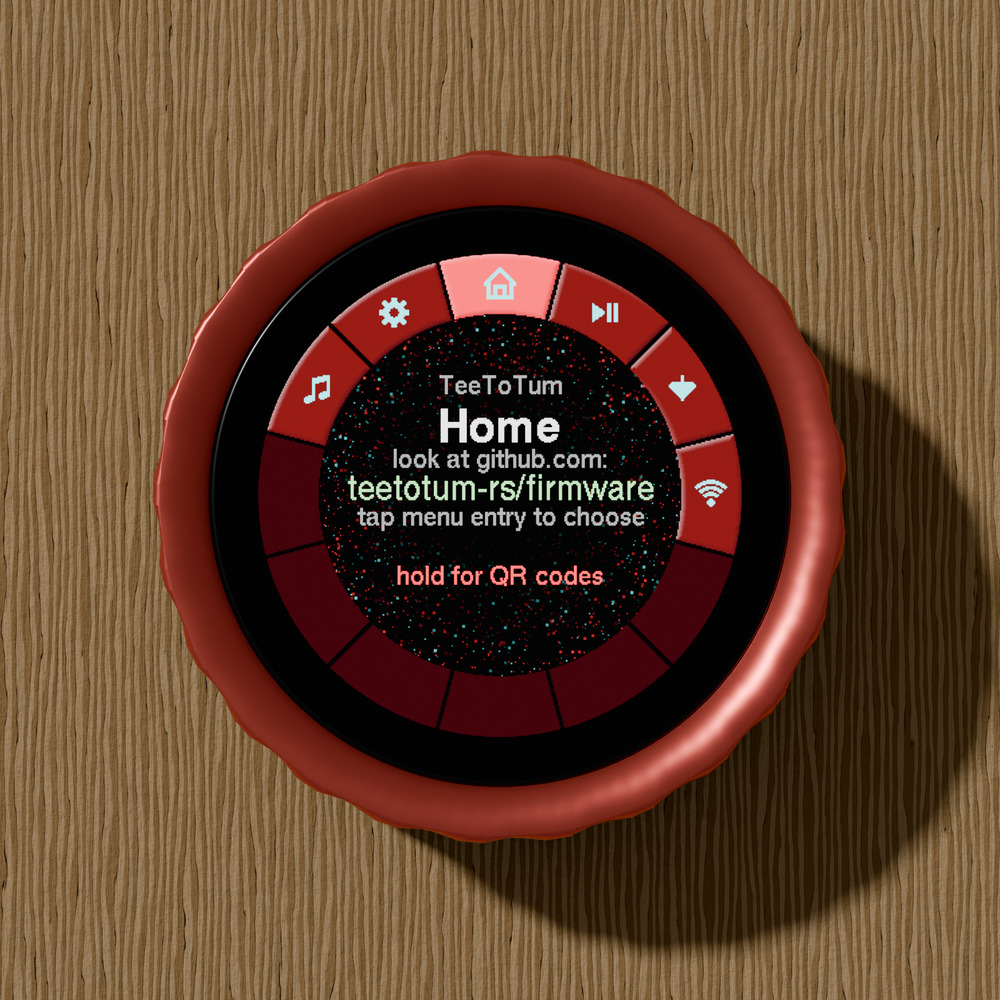
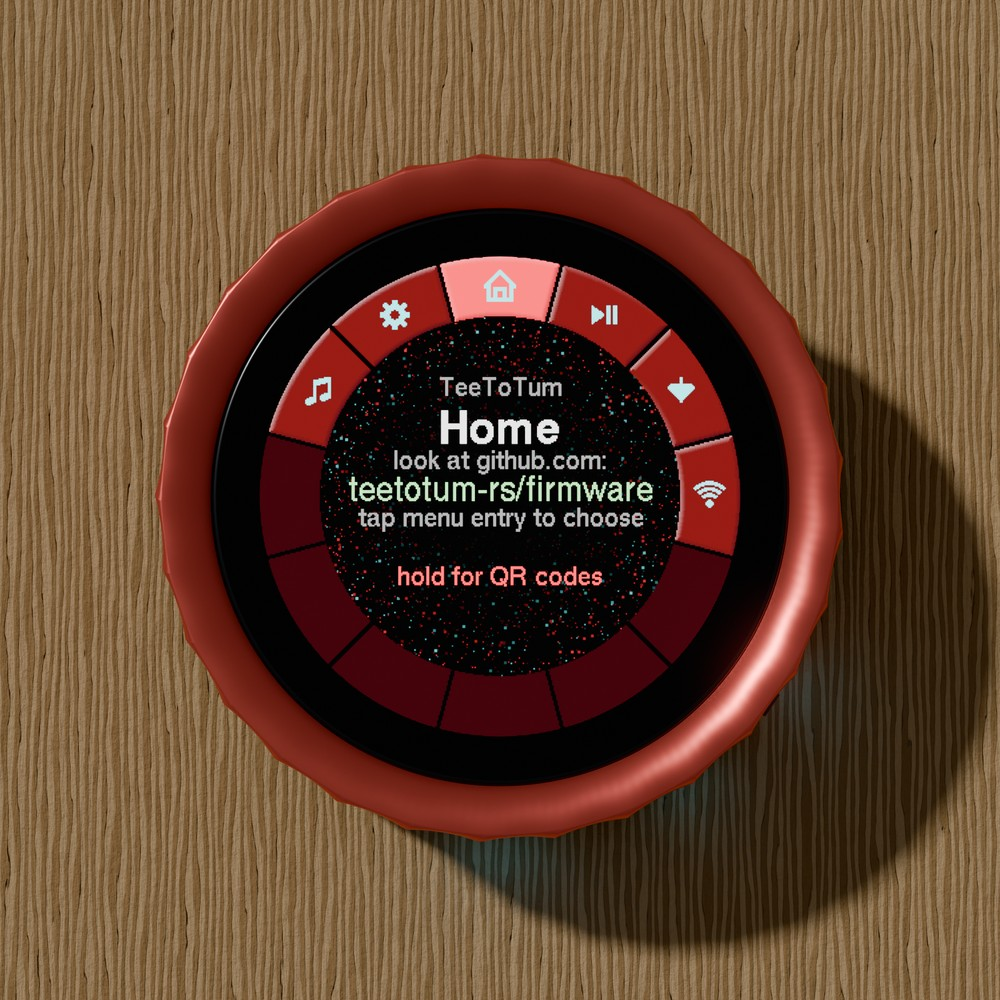
Model the base's openings and the knurl from photographs
The render now shows microphone, USB-C, headphone jack and power switch in
the base, glowing blue so they read against the black case; the README says
the glow is illustration only. The knurl has 29 flutes climbing at 40 degrees
as flat facets between sharp crests, the height divides as measured (knob
13.4 mm, base 7.9 mm on a narrower foot), and the quarter view turns to show
all four openings.

Claude-Session: https://claude.ai/code/session_01RK2rQXJBQMYdPMgsSTKkCg

diff --git a/tools/render-device.py b/tools/render-device.py
@@ -21,6 +21,7 @@ import math
 import os
 import sys
 
+import bmesh
 import bpy
 from mathutils import Vector
 
@@ -31,25 +32,45 @@ KNOB_D = 66.0          # outer diameter of the red knob ring, measured
 BASE_D = 66.0          # the base is the same width, measured
 TOTAL_H = 22.0         # overall height, measured
 
-# How the height divides between knob and base is estimated.
-KNOB_H = 11.5
+# How the height divides, measured from side photographs.
+KNOB_H = 13.4
 GAP_H = 0.7            # the shadow line between the turning part and the base
 BASE_H = TOTAL_H - KNOB_H - GAP_H
+FOOT_H = 1.1           # the base stands on a narrower foot
+FOOT_D = 62.5
 
 GLASS_D = KNOB_D * 0.839   # black glass, edge to edge
 ACTIVE_D = KNOB_D * 0.696  # the 360x360 pixels the firmware draws into
 # The knob's face is a shallow cone falling towards the glass, which lies at its inner edge.
 FACE_DISH = 0.7            # how far the inner edge of the face lies below the outer one
 GLASS_FILLET = 0.5         # radius of the rounded edge of the glass
+# The flutes, counted and measured on side photographs: flat facets between sharp crests,
+# slightly hollow, climbing at a constant angle.
+FLUTES = 29
+FLUTE_SLANT = 40.0         # degrees from the axis
+FLUTE_SAG = 0.3            # how far the middle of a facet lies below its chord
+FLUTE_POINTS = 6           # vertices across one flute
 KNOB_BEVEL = 0.8           # chamfer on the knob's top edge, the only smooth part of it
 BASE_BEVEL = 1.0
 
-USB_W, USB_H, USB_DEPTH = 9.0, 3.2, 1.6   # the Type-C socket in the base
+# The openings in the base, measured from photographs of its side. Azimuth in degrees (-90 is
+# the -y side), width along the circumference and height in millimetres.
+PORTS = {
+    "mic": dict(azimuth=-111, w=1.1, h=1.1),
+    "usb": dict(azimuth=-90, w=9.4, h=3.5),
+    "jack": dict(azimuth=-57, w=4.0, h=4.0),
+    "switch": dict(azimuth=-34, w=6.5, h=3.1),
+}
+PORT_DEPTH = 1.2
+SWITCH_PROUD = 1.0         # the switch lever stands out of the base
 
 # --- colours ------------------------------------------------------------------
 RED_ANODISED = (0.74, 0.105, 0.085)   # linear; matt anodised aluminium, the turning part
 BASE_BLACK = (0.022, 0.022, 0.024)    # the base below the seam
 GLASS_BLACK = (0.004, 0.004, 0.005)
+NEON_BLUE = (0.0, 0.42, 1.0)          # the openings glow, or they are black on black
+NEON_STRENGTH = 8.0
+GLOW_THRESHOLD = 6.5                  # above the screen's brightest pixels, so it stays sharp
 GROUND_LIGHT = (0.78, 0.78, 0.79)
 GROUND_DARK = (0.045, 0.046, 0.050)
 WOOD_LIGHT = (0.700, 0.455, 0.215)    # linear; light brown, the wood between the grain
@@ -135,8 +156,8 @@ def cylinder(name, radius, depth, z, verts=128, bevel=0.0, mat=None):
     return ob
 
 
-def knurled_knob(name, radius, height, bottom, teeth=25, groove=0.5,
-                 bevel=0.8, slant=45.0, dish=0.0, bore=None, mat=None):
+def knurled_knob(name, radius, height, bottom, teeth=FLUTES, sag=FLUTE_SAG,
+                 bevel=0.8, slant=FLUTE_SLANT, dish=0.0, bore=None, mat=None):
     """The whole turning part as one mesh, its profile written out as rings:
 
         bottom ......... full flutes
@@ -146,9 +167,9 @@ def knurled_knob(name, radius, height, bottom, teeth=25, groove=0.5,
 
     A single mesh avoids a bevel modifier, which would also round the lower rim and leave a
     visible groove. The twist per millimetre is constant, so flutes climb at `slant` degrees (a
-    diagonal knurl). Four points per flute keep the wall round between the grooves.
+    diagonal knurl). Each flute is a facet between two crests, hollowed by `sag`.
     """
-    spokes = teeth * 4
+    spokes = teeth * FLUTE_POINTS
     step = 2 * math.pi / spokes
 
     # (height above the bottom, how much of the flute depth is left, radius of the ring)
@@ -172,8 +193,10 @@ def knurled_knob(name, radius, height, bottom, teeth=25, groove=0.5,
         zt_twist = zt if n < knurled else height
         twist = math.tan(math.radians(slant)) * zt_twist / radius if slant else 0.0
         for i in range(spokes):
-            # Two points on the land, two in the groove.
-            r = ring_r - (groove * depth if i % 4 in (2, 3) else 0.0)
+            # On the chord between two crests, less the hollow; `depth` fades both towards the face.
+            u = (i % FLUTE_POINTS) / FLUTE_POINTS
+            chord = math.cos(math.pi / teeth) / math.cos((u - 0.5) * 2 * math.pi / teeth)
+            r = ring_r * (1 - depth * (1 - chord)) - sag * depth * 4 * u * (1 - u)
             theta = i * step + twist
             verts.append((r * math.cos(theta), r * math.sin(theta), zt - height / 2))
 
@@ -193,11 +216,12 @@ def knurled_knob(name, radius, height, bottom, teeth=25, groove=0.5,
     bpy.context.collection.objects.link(ob)
     ob.location = (0, 0, bottom + height / 2)
 
-    # Mark the upright edges of the knurled rings sharp: an angle threshold would either facet
-    # the chamfer or melt the flutes. On the face they would facet it into wedges.
+    # Mark the crests sharp and leave the facets smooth: an angle threshold would either facet
+    # the chamfer or melt the crests. On the face they would facet it into wedges.
     for edge in mesh.edges:
         a, b = edge.vertices
-        if a % spokes == b % spokes and max(a, b) < knurled * spokes:
+        if (a % spokes == b % spokes and a % FLUTE_POINTS == 0
+                and max(a, b) < knurled * spokes):
             edge.use_edge_sharp = True
 
     bpy.ops.object.select_all(action="DESELECT")
@@ -262,6 +286,7 @@ def boolean_difference(target, cutter):
         bpy.ops.object.modifier_apply(modifier=existing.name)
     m = target.modifiers.new("cut", "BOOLEAN")
     m.operation, m.object, m.solver = "DIFFERENCE", cutter, "EXACT"
+    m.material_mode = "TRANSFER"
     bpy.context.view_layer.objects.active = target
     bpy.ops.object.modifier_apply(modifier=m.name)
     bpy.data.objects.remove(cutter, do_unlink=True)
@@ -275,8 +300,9 @@ def build_device(art_path):
     dark = material("socket", (0.02, 0.02, 0.02), roughness=0.6)
 
     base_black = material("base black", BASE_BLACK, roughness=0.52, metallic=0.35)
-    base_z = BASE_H / 2
-    cylinder("base", BASE_D / 2, BASE_H, base_z, bevel=BASE_BEVEL, mat=base_black)
+    cylinder("foot", FOOT_D / 2, FOOT_H + 0.2, (FOOT_H + 0.2) / 2, bevel=0.3, mat=base_black)
+    cylinder("base", BASE_D / 2, BASE_H - FOOT_H, (FOOT_H + BASE_H) / 2, bevel=BASE_BEVEL,
+             mat=base_black)
 
     top = BASE_H + GAP_H + KNOB_H
     knurled_knob("knob", KNOB_D / 2, KNOB_H, BASE_H + GAP_H, bevel=KNOB_BEVEL,
@@ -292,13 +318,78 @@ def build_device(art_path):
     screen.data.materials.append(screen_material(art_path))
     unwrap_disc(screen)
 
-    # The Type-C socket, a dark recess in the side of the base.
-    bpy.ops.mesh.primitive_cube_add(size=1, location=(0, -BASE_D / 2 + USB_DEPTH / 2,
-                                                     BASE_H * 0.45))
-    sock = bpy.context.object
-    sock.name = "usb"
-    sock.scale = (USB_W / 2, USB_DEPTH / 2, USB_H / 2)
-    sock.data.materials.append(dark)
+    ports(dark)
+
+
+def stadium(w, h, n=48):
+    """Outline of a slot with round ends, as (u, v) round its centre; w == h gives a circle."""
+    r, half = h / 2, (w - h) / 2
+    pts = []
+    for i in range(n):
+        a = -math.pi / 2 + 2 * math.pi * i / n
+        c = half if math.cos(a) >= 0 else -half
+        pts.append((c + r * math.cos(a), r * math.sin(a)))
+    return pts
+
+
+def rect(w, h, cu=0.0):
+    return [(cu - w / 2, -h / 2), (cu + w / 2, -h / 2), (cu + w / 2, h / 2), (cu - w / 2, h / 2)]
+
+
+def prism(name, outline, y0, y1, azimuth, z, mat):
+    """Extrude an outline radially from y0 to y1 (0 is the base's surface) at `azimuth`."""
+    bm = bmesh.new()
+    rings = [[bm.verts.new((u, y, v)) for u, v in outline] for y in (y0, y1)]
+    bm.faces.new(rings[0])
+    bm.faces.new(rings[1])
+    n = len(outline)
+    for i in range(n):
+        j = (i + 1) % n
+        bm.faces.new((rings[0][i], rings[0][j], rings[1][j], rings[1][i]))
+    bmesh.ops.recalc_face_normals(bm, faces=bm.faces)
+    mesh = bpy.data.meshes.new(name)
+    bm.to_mesh(mesh)
+    bm.free()
+    mesh.materials.append(mat)
+    ob = bpy.data.objects.new(name, mesh)
+    bpy.context.collection.objects.link(ob)
+    a = math.radians(azimuth)
+    ob.location = (BASE_D / 2 * math.cos(a), BASE_D / 2 * math.sin(a), z)
+    ob.rotation_euler = (0, 0, a - math.pi / 2)    # local +y points radially out
+    return ob
+
+
+def ports(dark):
+    """Cut the openings into the base; their walls take the neon material from the cutter."""
+    neon = material("neon", (0, 0, 0), roughness=0.5, emission=NEON_BLUE, strength=NEON_STRENGTH)
+    base = bpy.data.objects["base"]
+    z = (FOOT_H + BASE_H) / 2
+    for name, p in PORTS.items():
+        cutter = prism(name, stadium(p["w"], p["h"]), -PORT_DEPTH, 3.0, p["azimuth"], z, neon)
+        boolean_difference(base, cutter)
+    floor = -PORT_DEPTH + 0.02
+    usb, jack, switch = PORTS["usb"], PORTS["jack"], PORTS["switch"]
+    # What sits inside, dark against the glow: the Type-C tongue, the jack's bore, the lever (off).
+    prism("usb tongue", rect(6.6, 0.7), floor, -0.35, usb["azimuth"], z, dark)
+    prism("jack bore", stadium(2.6, 2.6), floor, floor + 0.02, jack["azimuth"], z, dark)
+    prism("switch lever", rect(2.6, 2.5, cu=1.5), floor, SWITCH_PROUD, switch["azimuth"], z, dark)
+
+
+def add_glow(scene):
+    """Bloom above the screen's brightness, so only the openings get a halo."""
+    tree = bpy.data.node_groups.new("glow", "CompositorNodeTree")
+    tree.interface.new_socket("Image", in_out="OUTPUT", socket_type="NodeSocketColor")
+    layers = tree.nodes.new("CompositorNodeRLayers")
+    glare = tree.nodes.new("CompositorNodeGlare")
+    glare.inputs["Type"].default_value = "Bloom"
+    glare.inputs["Quality"].default_value = "High"
+    glare.inputs["Threshold"].default_value = GLOW_THRESHOLD
+    glare.inputs["Size"].default_value = 0.1       # a tight halo; wider reads as a smeared lens
+    glare.inputs["Strength"].default_value = 0.6
+    out = tree.nodes.new("NodeGroupOutput")
+    tree.links.new(glare.inputs["Image"], layers.outputs["Image"])
+    tree.links.new(out.inputs["Image"], glare.outputs["Image"])
+    scene.compositing_node_group = tree
 
 
 def unwrap_disc(ob):
@@ -480,8 +571,8 @@ def add_camera(name, loc, target, lens=85):
 CAMERAS = {
     # Three degrees off vertical, so the rim and the device's height stay visible.
     "front": dict(elevation=87, azimuth=-90, distance=300, target=(0, 0, KNOB_H), lens=110),
-    # Shows wall, flutes and USB socket without flattening the glass into a narrow ellipse.
-    "quarter": dict(elevation=40, azimuth=-125, distance=262, target=(0, 0, 14), lens=90),
+    # Shows wall, flutes and all four openings without flattening the glass into a narrow ellipse.
+    "quarter": dict(elevation=40, azimuth=-72, distance=262, target=(0, 0, 14), lens=90),
 }
 
 
@@ -514,6 +605,7 @@ def render(view, dark, out_dir, width, samples, art_dir, transparent=False, grou
     build_device(art)
     build_ground(dark, transparent, ground)
     build_lights(dark, ground if not transparent else "grey")
+    add_glow(scene)
     spec = CAMERAS[view]
     loc = camera_at(spec["elevation"], spec["azimuth"], spec["distance"], spec["target"])
     cam = add_camera("cam", loc, spec["target"], spec["lens"])

diff --git a/README.md b/README.md
@@ -75,7 +75,11 @@ wrong way round.
   <img src="images/quarter.jpg" width="500"
        alt="The same device seen from a low angle: a black case under a red knurled ring, the
             round glass set into the ring's face, which falls slightly towards it, and the ring
-            standing proud of the body.">
+            standing proud of the body. The openings in the base are drawn glowing blue:
+            microphone, USB-C socket, headphone jack and power switch.">
+  <br>
+  <sub>The blue glow is not real. It only marks the openings in the base, which are black on
+  black on the device: microphone, USB-C, headphone jack and power switch.</sub>
 </p>
 
 This firmware runs on the S3. It talks to the other chip over a UART at 921600 baud and leaves
